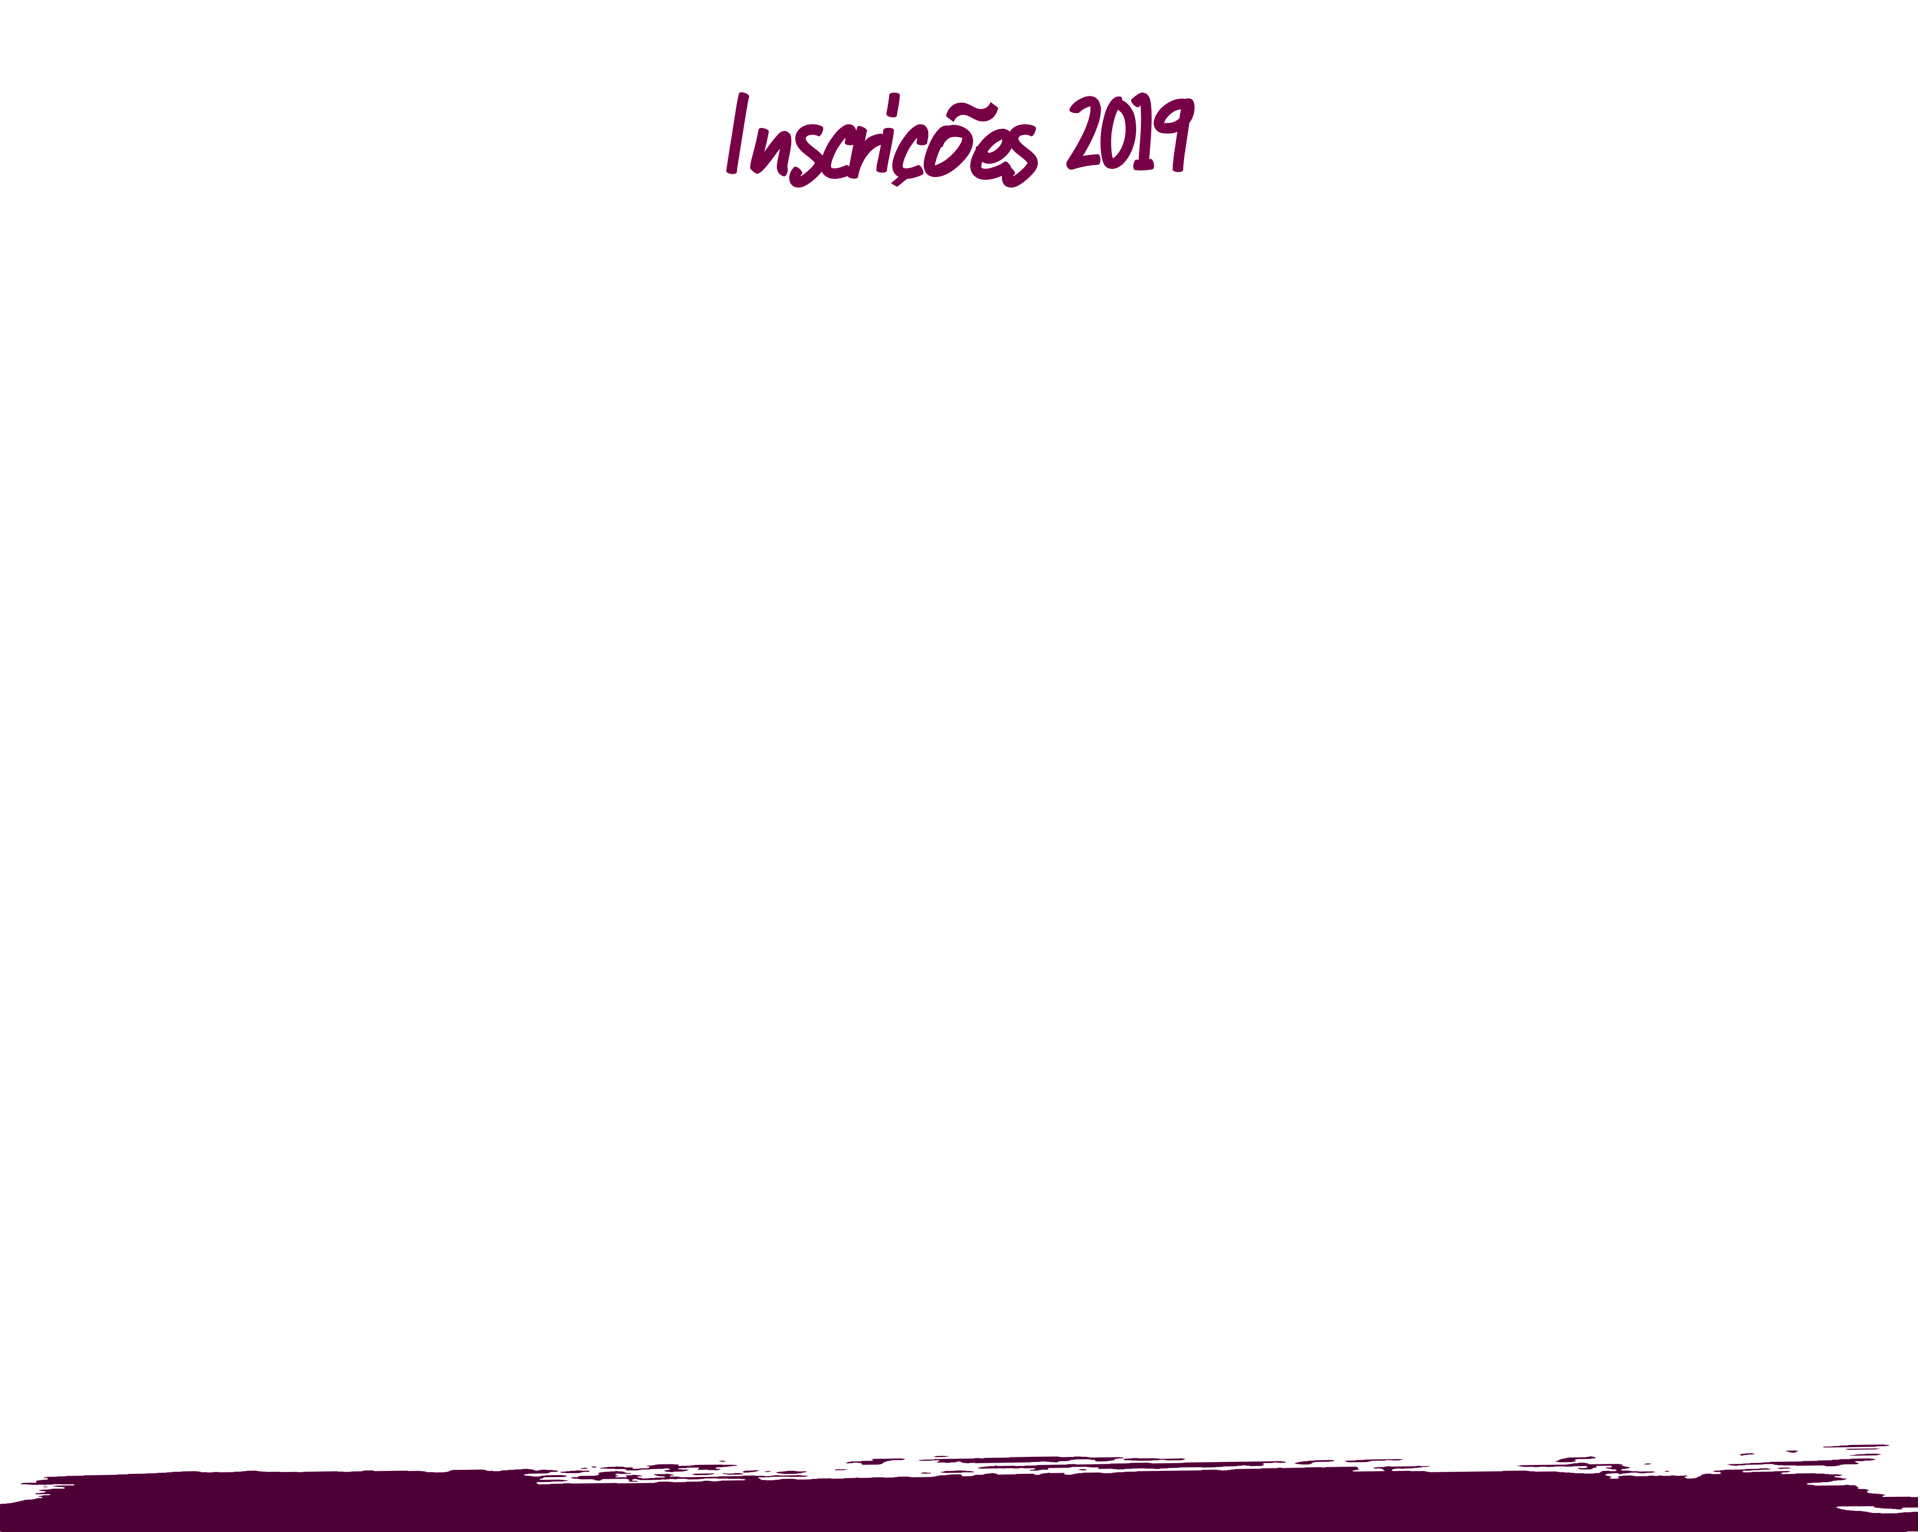
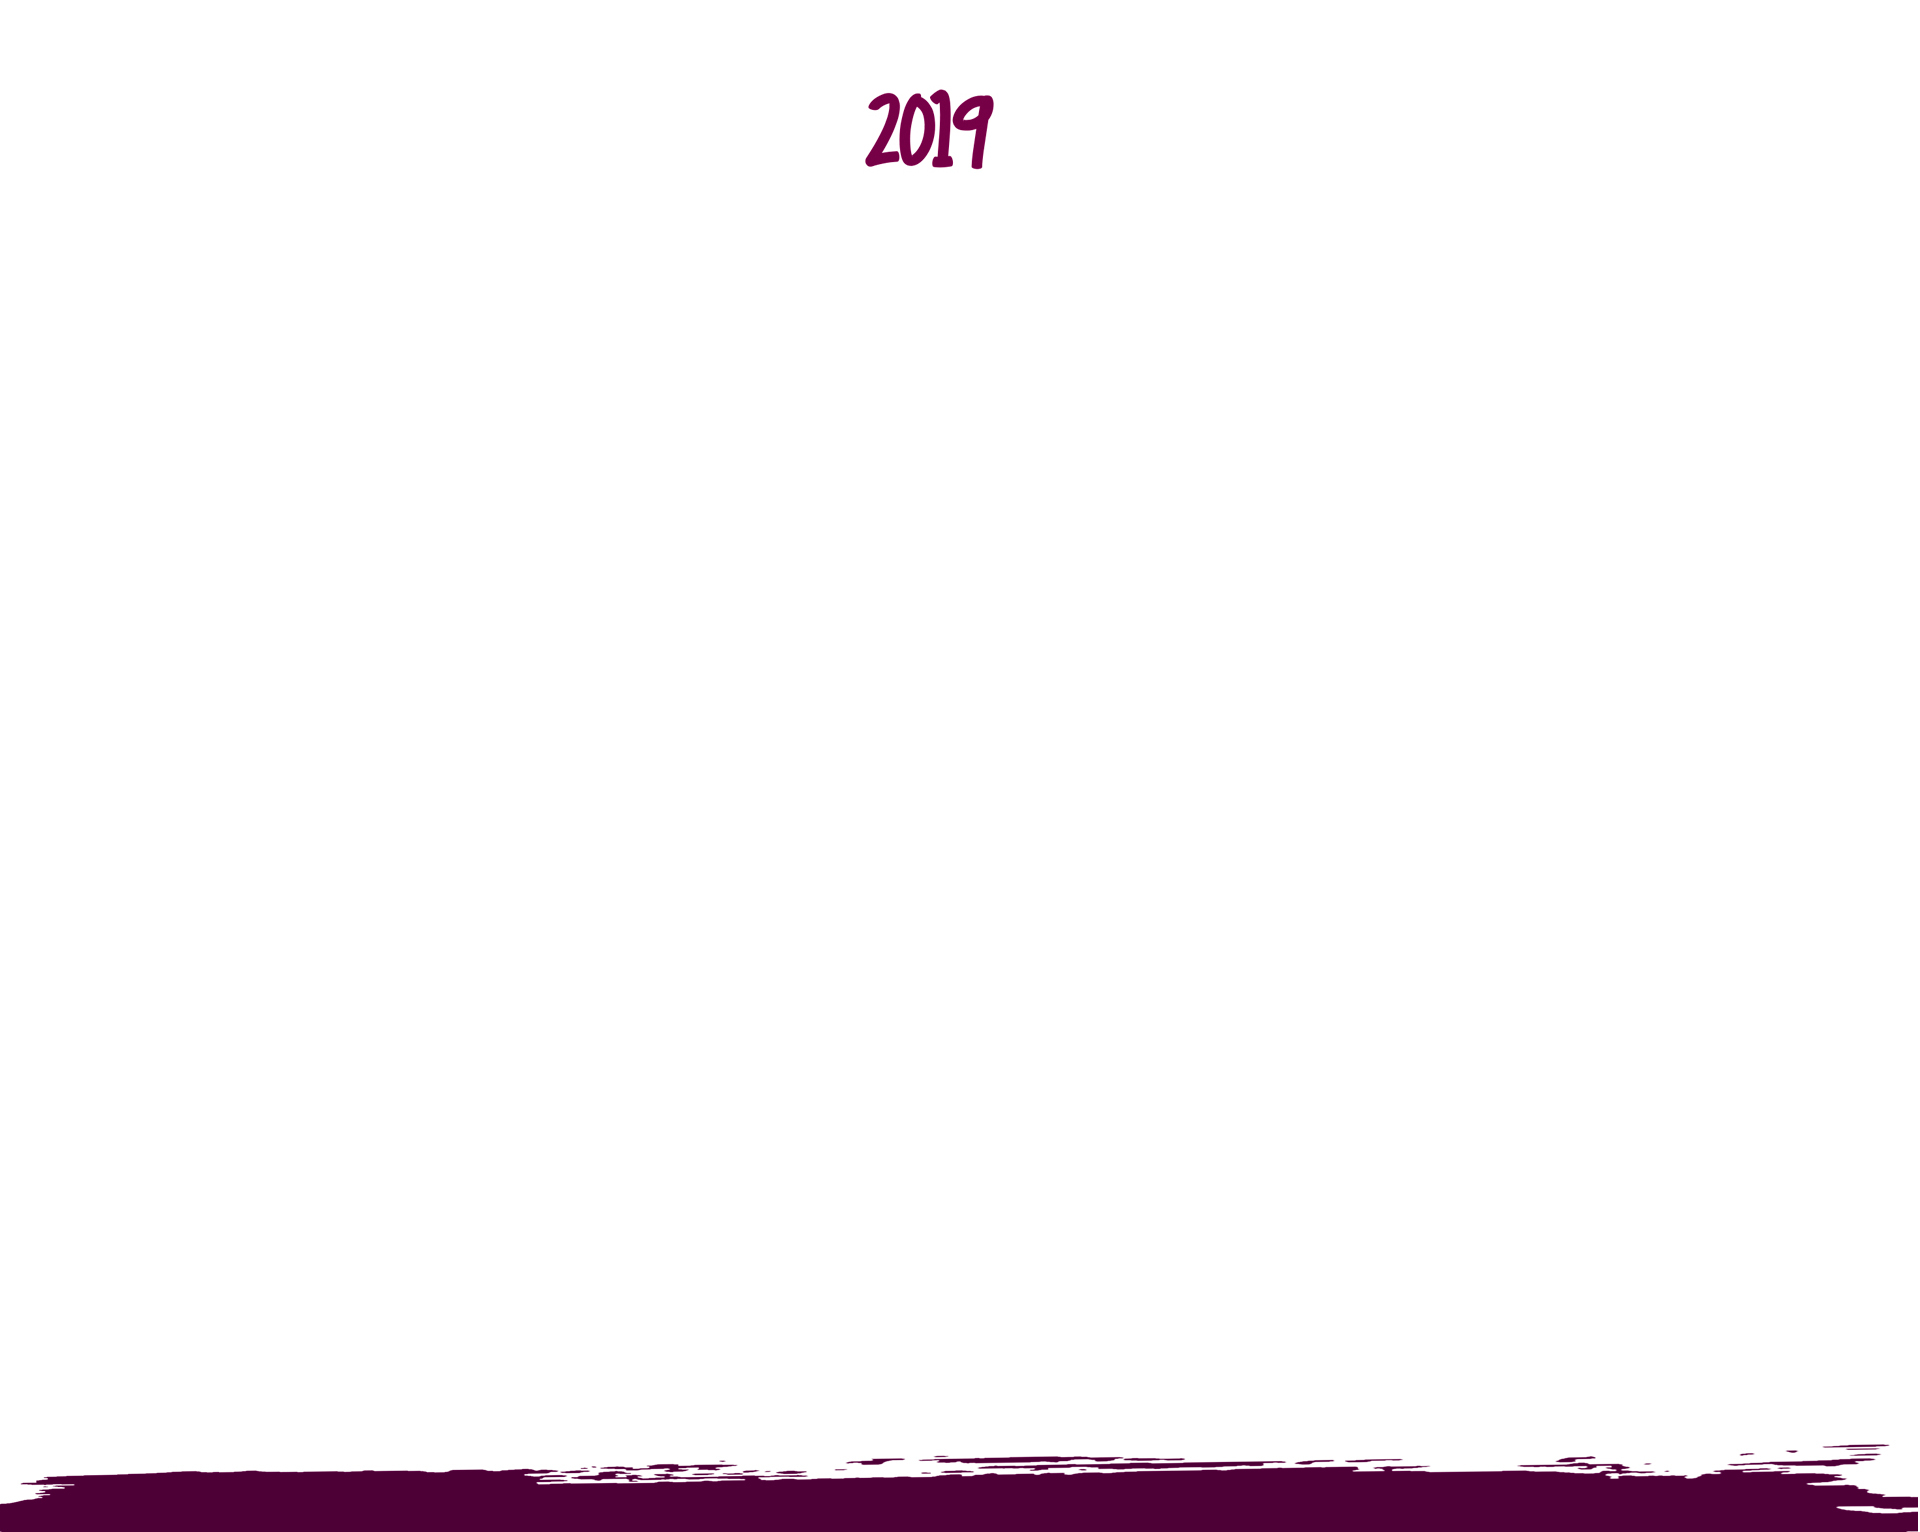
removendo informações sobre inscrições abertas

Changed region(s): [[0.375, 0.0614, 0.625, 0.1227]]

diff --git a/css/frontend-danca-do-ventre.css b/css/frontend-danca-do-ventre.css
@@ -32,7 +32,7 @@ body{margin: 0;padding:0 }
 	#containerAmora > #bloco03Amora .panel {padding: 0 18px;background-color: white;max-height: 0;overflow: hidden;transition: max-height 0.2s ease-out;}
 	#containerAmora > #bloco03Amora .botao {width:100%; border-radius:0.6vw; padding: 1vw; text-align:center; font-family: 'Roboto Slab', serif;color:#fff;font-size: 1.4vw;line-height:2.2vw;margin-top:28vw; margin-bottom:2vw;background-color: #430038;}
 	#containerAmora > #bloco03Amora .botao:hover{background-color:#00fe2a; color:#000;}
-	#containerAmora > #bloco03Amora h3 { text-align:right; font-family: 'Roboto Slab', serif; font-weight:bold; color:#430038;font-size: 2vw;line-height:0vw;margin-top:2vw; margin-bottom:2vw;}
+	#containerAmora > #bloco03Amora h3 { text-align:right; font-family: 'Roboto Slab', serif; font-weight:bold; color:#430038;font-size: 2vw;line-height:0vw;margin-top:20vw; margin-bottom:2vw;}
 	#containerAmora > #bloco03Amora h3:before{content: "";display: inline-block;vertical-align: middle;margin-right:1vw;border-top: 1vw solid transparent;border-bottom: 1vw solid transparent; border-right: 1vw solid #430038; }
 	#containerAmora > #bloco03Amora  h5 {color:red; font-size:1vw;font-family: 'Roboto Slab', serif;margin-top:-5vw;text-align:center; }
 	

diff --git a/css/frontend-teatro.css b/css/frontend-teatro.css
@@ -32,7 +32,7 @@ body{margin: 0;padding:0 }
 	#containerAmora > #bloco03Amora .panel {padding: 0 18px;background-color: white;max-height: 0;overflow: hidden;transition: max-height 0.2s ease-out;}
 	#containerAmora > #bloco03Amora .botao {width:100%; border-radius:0.6vw; padding: 1vw; text-align:center; font-family: 'Roboto Slab', serif;color:#fff;font-size: 1.4vw;line-height:2.2vw;margin-top:2vw; margin-bottom:2vw;background-color: #430038;}
 	#containerAmora > #bloco03Amora .botao:hover{background-color:#00fe2a; color:#000;}
-	#containerAmora > #bloco03Amora h3 { text-align:right; font-family: 'Roboto Slab', serif; font-weight:bold; color:#430038;font-size: 2vw;line-height:0vw;margin-top:2vw; margin-bottom:2vw;}
+	#containerAmora > #bloco03Amora h3 { text-align:right; font-family: 'Roboto Slab', serif; font-weight:bold; color:#430038;font-size: 2vw;line-height:0vw;margin-top:20vw; margin-bottom:2vw;}
 	#containerAmora > #bloco03Amora h3:before{content: "";display: inline-block;vertical-align: middle;margin-right:1vw;border-top: 1vw solid transparent;border-bottom: 1vw solid transparent; border-right: 1vw solid #430038; }
 	#containerAmora > #bloco03Amora h3:hover{opacity:0.7}
 	#containerAmora > #bloco03Amora strong.atencao{color:red}

diff --git a/index.html b/index.html
@@ -53,9 +53,8 @@
 
 			<div class="blocoAmora" id="bloco03Amora">
 				<p class="icol-desk-offset-04 icol-desk-16 icol-mb-offset-02 icol-mb-08">
-					Conheça os cursos do 2º semestre de 2019. <br>
-					As nossas incrições começam dia <strong>27 de Julho</strong> e vão até o término das vagas. <br>
-					O início das aulas será dia <strong>17 de Agosto</strong>.
+					Conheça os cursos do 2º semestre de 2019. <br/><br/>
+					Nossas inscrições <strong>não</strong> estão abertas no momento, fique atento a informações sobre o próximo semestre em nossas redes sociais.
 				</p>
 
 				<div class="galeria icol-desk-offset-05 icol-desk-06 icol-mb-offset-02 icol-mb-08">
@@ -87,7 +86,7 @@
 				<div class="galeria icol-desk-offset-02 icol-desk-06 icol-mb-offset-02 icol-mb-08">
 					<img id="demo5" src="img/curso_05.jpg"  />
 					<div class="contenthover">
-						<h5>O objetivo do curso de Street Jazz é levar aos alunos à dança e a educação corporal.</h5>
+						<h5>O objetivo do curso de Street Jazz é levar aos alunos à dança e à educação corporal.</h5>
 						<h3><a href="amora-street-jazz.html" class="mybutton">SAIBA MAIS</a></h3>
 					</div>
 					<h4 class="">Street Jazz</h4>

diff --git a/css/frontend-cinema.css b/css/frontend-cinema.css
@@ -32,7 +32,7 @@ body{margin: 0;padding:0 }
 	#containerAmora > #bloco03Amora .panel {padding: 0 18px;background-color: white;max-height: 0;overflow: hidden;transition: max-height 0.2s ease-out;}
 	#containerAmora > #bloco03Amora .botao {width:100%; border-radius:0.6vw; padding: 1vw; text-align:center; font-family: 'Roboto Slab', serif;color:#fff;font-size: 1.4vw;line-height:2.2vw;margin-top:28vw; margin-bottom:2vw;background-color: #430038;}
 	#containerAmora > #bloco03Amora .botao:hover{background-color:#00fe2a; color:#000;}
-	#containerAmora > #bloco03Amora h3 { text-align:right; font-family: 'Roboto Slab', serif; font-weight:bold; color:#430038;font-size: 2vw;line-height:0vw;margin-top:2vw; margin-bottom:2vw;}
+	#containerAmora > #bloco03Amora h3 { text-align:right; font-family: 'Roboto Slab', serif; font-weight:bold; color:#430038;font-size: 2vw;line-height:0vw;margin-top:20vw; margin-bottom:2vw;}
 	#containerAmora > #bloco03Amora h3:before{content: "";display: inline-block;vertical-align: middle;margin-right:1vw;border-top: 1vw solid transparent;border-bottom: 1vw solid transparent; border-right: 1vw solid #430038; }
 	#containerAmora > #bloco03Amora h3:hover{opacity:0.7}
 

diff --git a/css/frontend-danca-contemporanea.css b/css/frontend-danca-contemporanea.css
@@ -33,7 +33,7 @@ body{margin: 0;padding:0 }
 	#containerAmora > #bloco03Amora .panel {padding: 0 18px;background-color: white;max-height: 0;overflow: hidden;transition: max-height 0.2s ease-out;}
 	#containerAmora > #bloco03Amora .botao {width:100%; border-radius:0.6vw; padding: 1vw; text-align:center; font-family: 'Roboto Slab', serif;color:#fff;font-size: 1.4vw;line-height:2.2vw;margin-top:28vw; margin-bottom:2vw;background-color: #430038;}
 	#containerAmora > #bloco03Amora .botao:hover{background-color:#00fe2a; color:#000;}
-	#containerAmora > #bloco03Amora h3 { text-align:right; font-family: 'Roboto Slab', serif; font-weight:bold; color:#430038;font-size: 2vw;line-height:0vw;margin-top:2vw; margin-bottom:2vw;}
+	#containerAmora > #bloco03Amora h3 { text-align:right; font-family: 'Roboto Slab', serif; font-weight:bold; color:#430038;font-size: 2vw;line-height:0vw;margin-top:20vw; margin-bottom:2vw;}
 	#containerAmora > #bloco03Amora h3:before{content: "";display: inline-block;vertical-align: middle;margin-right:1vw;border-top: 1vw solid transparent;border-bottom: 1vw solid transparent; border-right: 1vw solid #430038; }
 	#containerAmora > #bloco03Amora h3:hover{opacity:0.7}
 

diff --git a/css/frontend-street-jazz.css b/css/frontend-street-jazz.css
@@ -33,7 +33,7 @@ body{margin: 0;padding:0 }
 	#containerAmora > #bloco03Amora .panel {padding: 0 18px;background-color: white;max-height: 0;overflow: hidden;transition: max-height 0.2s ease-out;}
 	#containerAmora > #bloco03Amora .botao {width:100%; border-radius:0.6vw; padding: 1vw; text-align:center; font-family: 'Roboto Slab', serif;color:#fff;font-size: 1.4vw;line-height:2.2vw;margin-top:28vw; margin-bottom:2vw;background-color: #430038;}
 	#containerAmora > #bloco03Amora .botao:hover{background-color:#00fe2a; color:#000;}
-	#containerAmora > #bloco03Amora h3 { text-align:right; font-family: 'Roboto Slab', serif; font-weight:bold; color:#430038;font-size: 2vw;line-height:0vw;margin-top:2vw; margin-bottom:2vw;}
+	#containerAmora > #bloco03Amora h3 { text-align:right; font-family: 'Roboto Slab', serif; font-weight:bold; color:#430038;font-size: 2vw;line-height:0vw;margin-top:25vw; margin-bottom:2vw;}
 	#containerAmora > #bloco03Amora h3:before{content: "";display: inline-block;vertical-align: middle;margin-right:1vw;border-top: 1vw solid transparent;border-bottom: 1vw solid transparent; border-right: 1vw solid #430038; }
 	#containerAmora > #bloco03Amora h3:hover{opacity:0.7}
 

diff --git a/amora-danca-do-ventre.html b/amora-danca-do-ventre.html
@@ -147,7 +147,7 @@
 					<p> Ensaio Coreografia do Festival </p>
 				</div> -->
 
-				<a href="https://inscricoes-amora-arte.herokuapp.com/pessoas?curso=Dan%C3%A7a+do+Ventre"><div class="botao icol-desk-offset-00 icol-desk-24 icol-mb-offset-00 icol-mb-10">Inscreva-se</div></a>
+				<!-- <a href="https://inscricoes-amora-arte.herokuapp.com/pessoas?curso=Dan%C3%A7a+do+Ventre"><div class="botao icol-desk-offset-00 icol-desk-24 icol-mb-offset-00 icol-mb-10">Inscreva-se</div></a> -->
 				<a href="index.html"><h3 class="icol-desk-offset-01 icol-desk-20" >conheça outros cursos</h3></a>
 				
 				<script>

diff --git a/amora-cinema.html b/amora-cinema.html
@@ -60,7 +60,7 @@
 
 			<div class="icol-desk-offset-02 icol-desk-08 icol-mb-offset-02 icol-mb-08 conteudo">
 
-				<a href="https://inscricoes-amora-arte.herokuapp.com/pessoas?curso=Cinema+%26+TV"><div class="botao icol-desk-offset-00 icol-desk-24 icol-mb-offset-00 icol-mb-10">Inscreva-se</div></a>
+				<!-- <a href="https://inscricoes-amora-arte.herokuapp.com/pessoas?curso=Cinema+%26+TV"><div class="botao icol-desk-offset-00 icol-desk-24 icol-mb-offset-00 icol-mb-10">Inscreva-se</div></a> -->
 
 				<a href="index.html"><h3 class="icol-desk-offset-01 icol-desk-20" >conheça outros cursos</h3></a>
 

diff --git a/amora-danca-contemporanea.html b/amora-danca-contemporanea.html
@@ -75,7 +75,7 @@
 					<p>Respiração</p>
 				</div> -->
 
-				<a href="https://inscricoes-amora-arte.herokuapp.com/pessoas?curso=Dan%C3%A7a+Contempor%C3%A2nea"><div class="botao icol-desk-offset-00 icol-desk-24 icol-mb-offset-00 icol-mb-10">Inscreva-se</div></a>
+				<!-- <a href="https://inscricoes-amora-arte.herokuapp.com/pessoas?curso=Dan%C3%A7a+Contempor%C3%A2nea"><div class="botao icol-desk-offset-00 icol-desk-24 icol-mb-offset-00 icol-mb-10">Inscreva-se</div></a> -->
 
 				<a href="index.html"><h3 class="icol-desk-offset-01 icol-desk-20" >conheça outros cursos</h3></a>
 

diff --git a/amora-street-jazz.html b/amora-street-jazz.html
@@ -81,7 +81,7 @@
 					<p>Trabalhar a expressão corporal.</p>
 				</div> -->
 
-				<a href="https://inscricoes-amora-arte.herokuapp.com/pessoas?curso=Street+Jazz"><div class="botao icol-desk-offset-00 icol-desk-24 icol-mb-offset-00 icol-mb-10">Inscreva-se</div></a>
+				<!-- <a href="https://inscricoes-amora-arte.herokuapp.com/pessoas?curso=Street+Jazz"><div class="botao icol-desk-offset-00 icol-desk-24 icol-mb-offset-00 icol-mb-10">Inscreva-se</div></a> -->
 
 				<a href="index.html"><h3 class="icol-desk-offset-01 icol-desk-20" >conheça outros cursos</h3></a>
 

diff --git a/amora-teatro.html b/amora-teatro.html
@@ -162,7 +162,7 @@
 				<p>Ensaio do espetáculo</p>
 			</div>
  -->
-			<a href="https://inscricoes-amora-arte.herokuapp.com/pessoas?curso=Teatro"><div class="botao icol-desk-offset-00 icol-desk-24 icol-mb-offset-00 icol-mb-10">Inscreva-se</div></a>
+			<!-- <a href="https://inscricoes-amora-arte.herokuapp.com/pessoas?curso=Teatro"><div class="botao icol-desk-offset-00 icol-desk-24 icol-mb-offset-00 icol-mb-10">Inscreva-se</div></a> -->
 			<a href="index.html"><h3 class="icol-desk-offset-01 icol-desk-20" >conheça outros cursos</h3></a>
 
 			<script>

diff --git a/amora-fotografia.html b/amora-fotografia.html
@@ -146,7 +146,7 @@
 					<p></p>
 				</div>
 
-				<a href="https://inscricoes-amora-arte.herokuapp.com/pessoas?curso=Fotografia"><div class="botao icol-desk-offset-00 icol-desk-24 icol-mb-offset-00 icol-mb-10">Inscreva-se</div></a>
+				<!-- <a href="https://inscricoes-amora-arte.herokuapp.com/pessoas?curso=Fotografia"><div class="botao icol-desk-offset-00 icol-desk-24 icol-mb-offset-00 icol-mb-10">Inscreva-se</div></a> -->
 
 				<a href="index.html"><h3 class="icol-desk-offset-01 icol-desk-20" >conheça outros cursos</h3></a>
 
